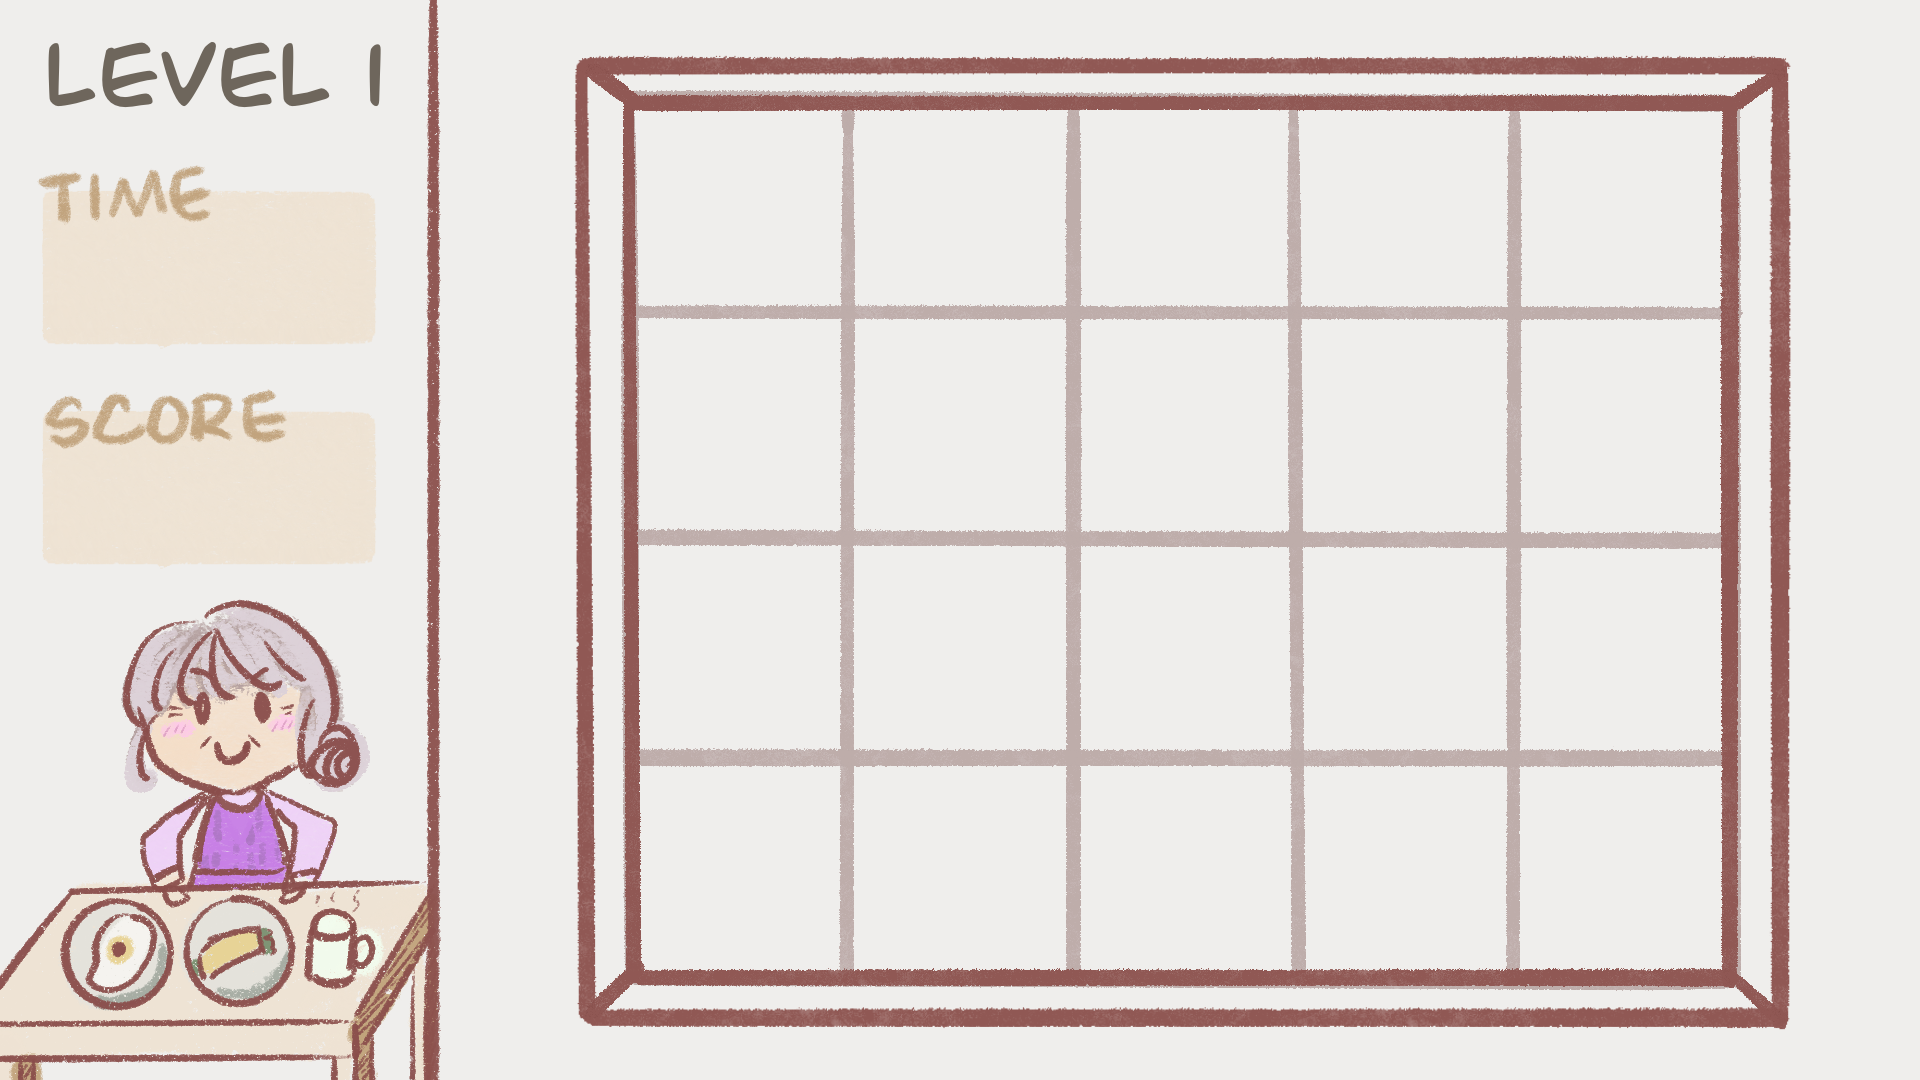
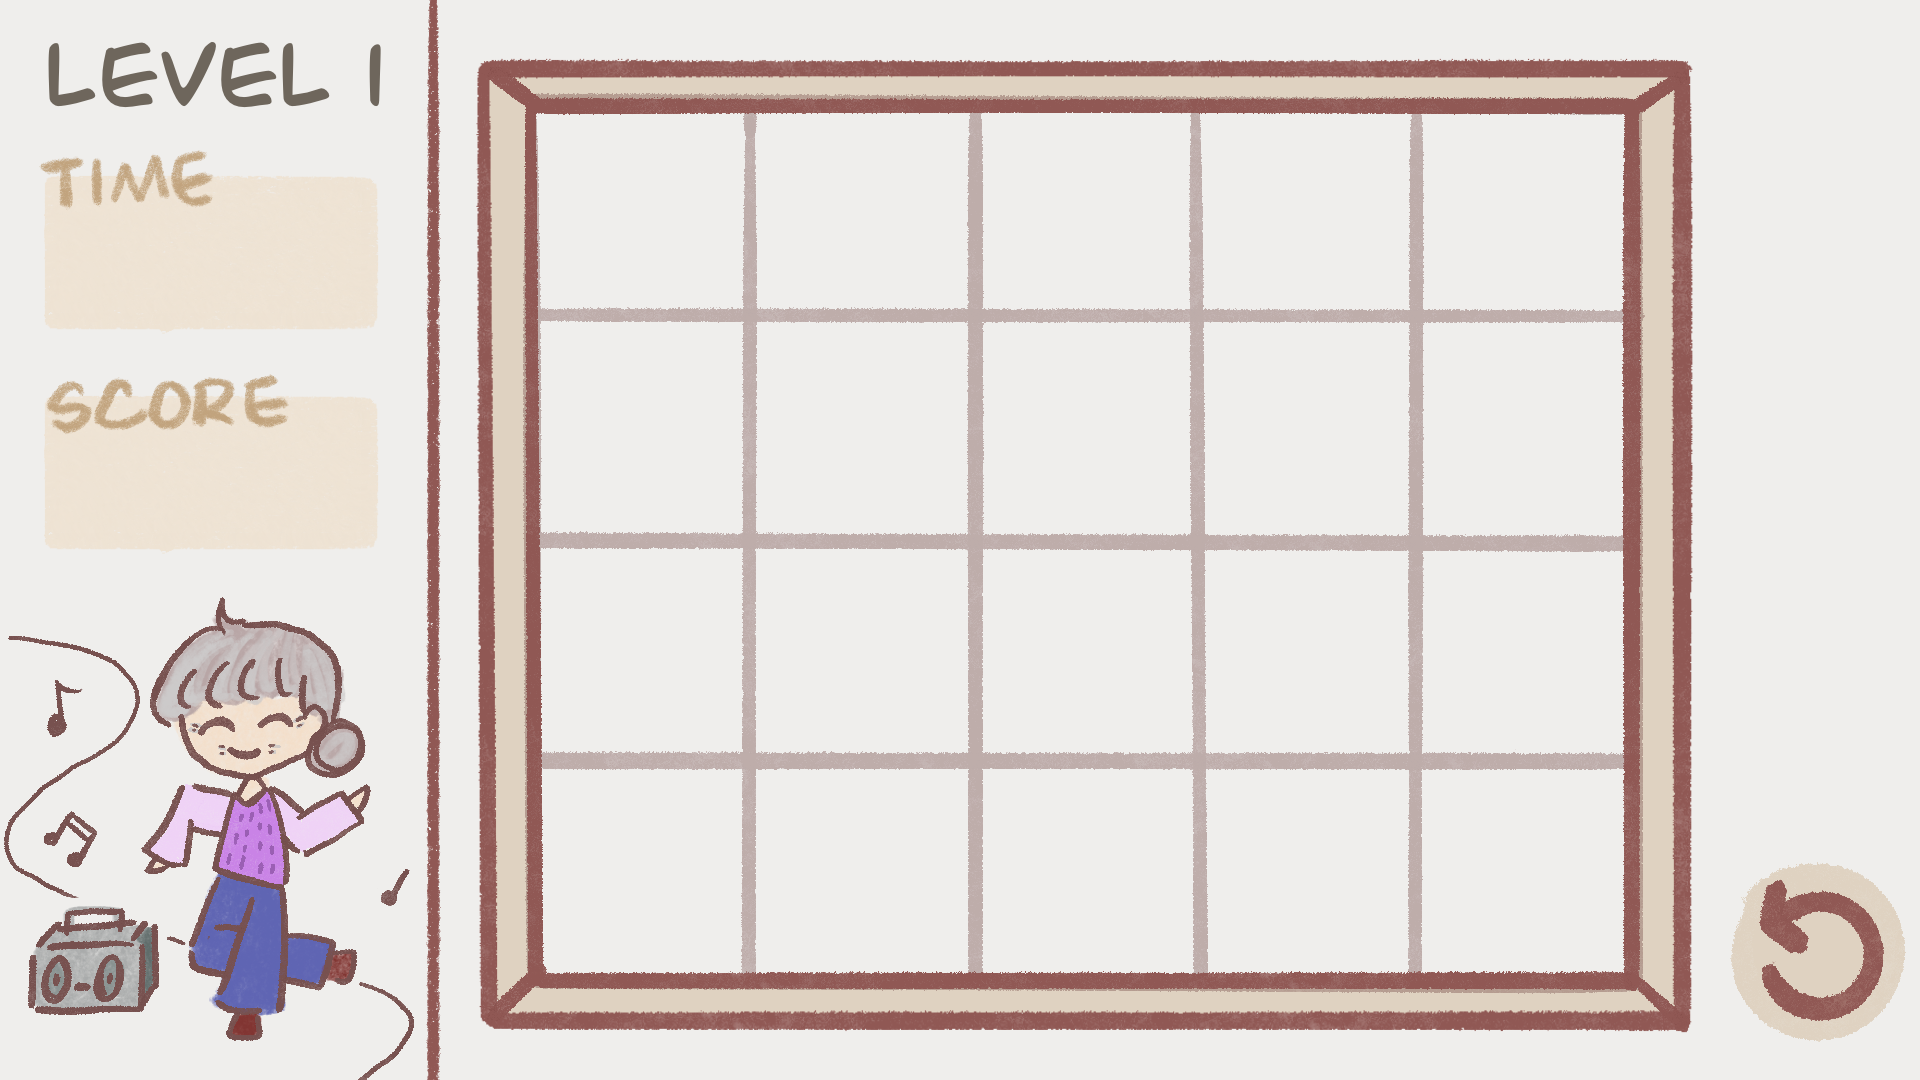
feat(secene1):游戲功能完成

diff --git a/assets/js/scene1.js b/assets/js/scene1.js
@@ -5,14 +5,18 @@ class scene01 extends Phaser.Scene {
         super({ key: 'scene01' })
         this.level = 1;
         this.itemNum = constants.LevelPassNum[this.level - 1];
-        this.gameIndex = constants.GameIndex[this.level - 1];
+        this.gameIndex = JSON.parse(JSON.stringify(constants.GameIndex[this.level - 1]));;
         this.promptText;
+        this.promptImage;
+        this.historyClickIndex = [];
         this.lastClickIndex = [-1, -1];
         this.IsSelectItem = false;
         this.lastItem;
-        this.LineGroup;
+        this.LineGroup = [];
         this.lastLineDirection;
         this.lineColor;
+        this.success = 0;
+        this.currentLineGroup;
     }
 
     preload() {
@@ -24,15 +28,16 @@ class scene01 extends Phaser.Scene {
                 this.load.image(fileName, FUrl + fileName + ".png")
             }
         }
-        this.load.image('test', "/assets/img/test.png");
+        this.load.image('test', "/assets/img/public/test.png");
+        this.load.image('resetBtn', "/assets/img/public/resetBtn.png");
         this.load.image('fail', "/assets/img/public/fail.png");
-        this.load.image('gohome', "/assets/img/public/gohome.jpg");
+        this.load.image('success', "/assets/img/public/success.png");
+        this.load.image('gohomeBtn', "/assets/img/public/gohome.jpg");
 
         const IUrl = "/assets/img/public/line/"
         for (let i = 1; i < 5; i++) {
             for (let j = 1; j < 5; j++) {
                 const fileName = "line" + i + (String.fromCharCode(j + 96));
-                console.log(fileName);
                 this.load.image(fileName, IUrl + fileName + ".png")
             }
         }
@@ -40,16 +45,20 @@ class scene01 extends Phaser.Scene {
     }
 
     create() {
-        this.LineGroup = this.add.group();
-
-        //顯示背景
+        //背景
         this.add.image(0, 0, 'bg').setOrigin(0, 0);
-        // this.add.image(590, 610, 'gohome').setOrigin(0, 0).setScale(0.09).setDepth(4);
-        // this.add.image(500, 250, 'fail').setOrigin(0, 0).setScale(0.3).setDepth(3);
 
-        //顯示提示文字
+        //提示圖片
+        this.promptImage = this.add.image(constants.ScreenWidth, constants.ScreenHeight, 'test').setScale(0.095).setDepth(2).setVisible(false);
+
+        //提示文字
         this.promptText = this.add.text(0, 0, '當前選中:無', { fontSize: 32, color: '0x000000' });
         this.promptText.setPosition(1000, 20).setOrigin(0, 0);
+
+        //重置按鈕
+        const resetBtn = this.add.image(constants.resetBtnXY[0], constants.resetBtnXY[1], 'resetBtn').setOrigin(0, 0).setScale(constants.resetBtnScale);
+        resetBtn.setInteractive();
+        resetBtn.on('pointerdown', () => util.handleClickresetBtn(this))
 
         //顯示物品
         const cellGroup = this.add.group();
@@ -74,7 +83,7 @@ class scene01 extends Phaser.Scene {
                     if (this.gameIndex[y][x] == i) {
                         count++;
                         const fileName = (String.fromCharCode(i + 96)) + count;
-                        const item = itemGroup.create(xIndex, yIndex, fileName).setScale(constants.ItemScale).setData('id', fileName).setData('index', [x, y]);
+                        const item = itemGroup.create(xIndex, yIndex, fileName).setScale(constants.ItemScale).setData('id', fileName).setData('index', [x, y]).setDepth(constants.ItemDepth);
                         itemGroup.add(item);
                     }
                 }
@@ -85,56 +94,80 @@ class scene01 extends Phaser.Scene {
     clickGrid = (pointer) => {
         const x = parseInt((pointer.x - (constants.ScreenWidth - constants.GridWidth / 2)) / constants.GridWidth)
         const y = parseInt((pointer.y - (constants.ScreenHeight - constants.GridHeight / 2)) / constants.GridHeight);
-        console.log(this.lineColor);
-        if (this.IsSelectItem) {
 
+        if (this.lastItem + 80 == this.gameIndex[y][x]) {
+            console.log('點擊到相同物品');
+            return;
+        } else if (this.lastItem + 90 == this.gameIndex[y][x]) {
+            console.log('點擊到相同綫條');
+            //這裏應該要退回上一步
+            return;
+        } else if (this.gameIndex[y][x] >= 80) {
+            console.log('點擊到不能點的地方')
+            return;
+        }
+
+
+
+        if (this.IsSelectItem) {
             //上次有點擊到物品
             if (Math.abs(this.lastClickIndex[0] - x) + Math.abs(this.lastClickIndex[1] - y) == 1) {
                 //點擊有相連
 
                 //第二次點到物品
-                if (this.gameIndex[y][x] != 0) {
+                if (this.gameIndex[y][x] != 0 && this.gameIndex[y][x] < 90) {
+                    this.gameIndex[y][x] = 80 + this.gameIndex[y][x]
+                    this.promptImage.setVisible(false);
 
-                    if (this.gameIndex[y][x] == this.lastItem) {
+                    if ((this.gameIndex[y][x] - 80) == this.lastItem) {
                         //點到正確的物品
-                        console.log("true")
+                        this.success = this.success + 1;
+
+                        if (this.success == this.itemNum) {
+                            console.log('過關成功')
+                            this.add.image(500, 250, 'success').setOrigin(0, 0).setScale(0.3).setDepth(3);
+                        }
                     } else {
                         //錯誤的物品
-                        console.log("false")
+
                     }
 
                     this.promptText.setText('當前:' + '無');
                     this.IsSelectItem = false;
                     this.lastItem = null;
                     util.changeLastLine(this, x, y);
-                    this.LineGroup.clear()
                     return;
                 } else {
-
+                    this.promptImage.setX(constants.ScreenWidth + (constants.GridWidth * x)).setY(constants.ScreenHeight + (constants.GridHeight * y))
                     util.changeLastLine(this, x, y);
                     util.drawLine(this, x, y)
 
                 }
 
                 this.lastClickIndex = [x, y]
+                this.historyClickIndex.push([x,y]);this.historyClickIndex.push([x,y])
                 this.promptText.setText('當前選擇坐標:' + [x, y]);
 
             } else {
                 //點擊沒有相連
-                this.promptText.setText('當前:' + '無');
-                this.IsSelectItem = false;
-                this.lastItem = null;
-                this.LineGroup.clear()
+
             }
         } else {
             //上次沒有點擊到物品
             if (this.gameIndex[y][x] != 0) {
                 //這次有點到物品
+                this.currentLineGroup = this.add.group()
+                this.LineGroup.push(this.currentLineGroup);
+
                 this.promptText.setText('當前選擇坐標:' + [x, y]);
+                this.promptImage.setX(constants.ScreenWidth + (constants.GridWidth * x)).setY(constants.ScreenHeight + (constants.GridHeight * y)).setVisible(true);
+
                 this.lastClickIndex = [x, y];
+                this.historyClickIndex.push([x,y])
                 this.IsSelectItem = true;
                 this.lastItem = this.gameIndex[y][x];
                 this.lineColor = (String.fromCharCode(96 + this.gameIndex[y][x]));
+                this.gameIndex[y][x] = 80 + this.lastItem
             } else {
                 //這次一樣沒點到物品
                 this.promptText.setText('當前:' + '無');

diff --git a/assets/js/utils.js b/assets/js/utils.js
@@ -1,6 +1,6 @@
 const util = {
     changeLastLine: (scene, x, y) => {
-        if (scene.LineGroup.getChildren().length > 0) {
+        if (scene.currentLineGroup.getChildren().length > 0) {
             //特別處理回轉
             let thisDirection;
             if (x - scene.lastClickIndex[0] == 0) {
@@ -20,27 +20,27 @@ const util = {
                 thisDirection = 3
             }
 
-            var lastLine = scene.LineGroup.getChildren()[scene.LineGroup.getChildren().length - 1];
-            
+            var lastLine = scene.currentLineGroup.getChildren()[scene.currentLineGroup.getChildren().length - 1];
+
             if ((thisDirection == 1 && scene.lastLineDirection == 2) || (thisDirection == 2 && scene.lastLineDirection == 1) || (thisDirection == 3 && scene.lastLineDirection == 4) || (thisDirection == 4 && scene.lastLineDirection == 3)) {
                 //回轉
             } else if (thisDirection == scene.lastLineDirection) {
                 //直綫   
-                lastLine.setTexture('line1'+scene.lineColor)
+                lastLine.setTexture('line1' + scene.lineColor)
             } else if ((thisDirection == 2 && scene.lastLineDirection == 4) || (thisDirection == 3 && scene.lastLineDirection == 1)) {
-                lastLine.setTexture('line2'+scene.lineColor).setAngle(0)
+                lastLine.setTexture('line2' + scene.lineColor).setAngle(0)
             } else if ((thisDirection == 1 && scene.lastLineDirection == 4) || (thisDirection == 3 && scene.lastLineDirection == 2)) {
-                lastLine.setTexture('line2'+scene.lineColor).setAngle(90)
+                lastLine.setTexture('line2' + scene.lineColor).setAngle(90)
             } else if ((thisDirection == 4 && scene.lastLineDirection == 2) || (thisDirection == 1 && scene.lastLineDirection == 3)) {
-                lastLine.setTexture('line2'+scene.lineColor).setAngle(180)
+                lastLine.setTexture('line2' + scene.lineColor).setAngle(180)
             } else {
-                lastLine.setTexture('line2'+scene.lineColor).setAngle(270)
+                lastLine.setTexture('line2' + scene.lineColor).setAngle(270)
             }
         }
     },
 
     drawLine: (scene, x, y) => {
-        var line = scene.add.image(constants.ScreenWidth + (constants.GridWidth * x), constants.ScreenHeight + (constants.GridHeight * y), 'line4'+scene.lineColor).setScale(constants.LineScale);
+        var line = scene.add.image(constants.ScreenWidth + (constants.GridWidth * x), constants.ScreenHeight + (constants.GridHeight * y), 'line4' + scene.lineColor).setScale(constants.LineScale);
 
         if (x - scene.lastClickIndex[0] == 0) {
             //x沒位移
@@ -63,6 +63,20 @@ const util = {
             scene.lastLineDirection = 3;
         }
 
-        scene.LineGroup.add(line);
+        scene.gameIndex[y][x] = 90 + scene.lastItem
+        scene.currentLineGroup.add(line);
+    },
+
+    handleClickresetBtn : (scene) => {
+        scene.gameIndex = JSON.parse(JSON.stringify(constants.GameIndex[scene.level - 1]));
+        scene.LineGroup.forEach((item) => {
+            item.clear(true, true)
+        })
+        scene.LineGroup = []
+        scene.success = 0;
+        scene.promptText.setText('當前:' + '無');
+        scene.IsSelectItem = false;
+        scene.lastItem = null;
+        scene.promptImage.setVisible(false);
     }
 }

diff --git a/assets/js/constants.js b/assets/js/constants.js
@@ -1,20 +1,22 @@
 const constants = {
     LevelPassNum: [4], //每關物品數,
     ScreenHeight: 210, //畫面寬差
-    ScreenWidth: 740,  //畫面高差
+    ScreenWidth: 640,  //畫面高差
     GridWidth: 222.5, //方格寬度
     GridHeight: 220, //方格高度
-    ItemDepth: 2,//物品zIndex
+    ItemDepth: 4,//物品zIndex
     ItemScale: 0.085,//物品縮放比例
     LineScale: 0.11, //綫條縮放比例
+    resetBtnScale: 0.09, //按鈕縮放比例
+    resetBtnXY: [1730,860], //按鈕xy
 
     //每關索引值
     GameIndex: [
         [
-            [4, 0, 4, 2, 3],
-            [1, 0, 0, 0, 0],
-            [0, 0, 2, 0, 1],
-            [0, 0, 3, 0, 0],
+            [4, 0, 0, 0, 3],
+            [0, 0, 4, 0, 0],
+            [0, 0, 2, 3, 1],
+            [2, 1, 0, 0, 0],
         ]
     ],
 }
